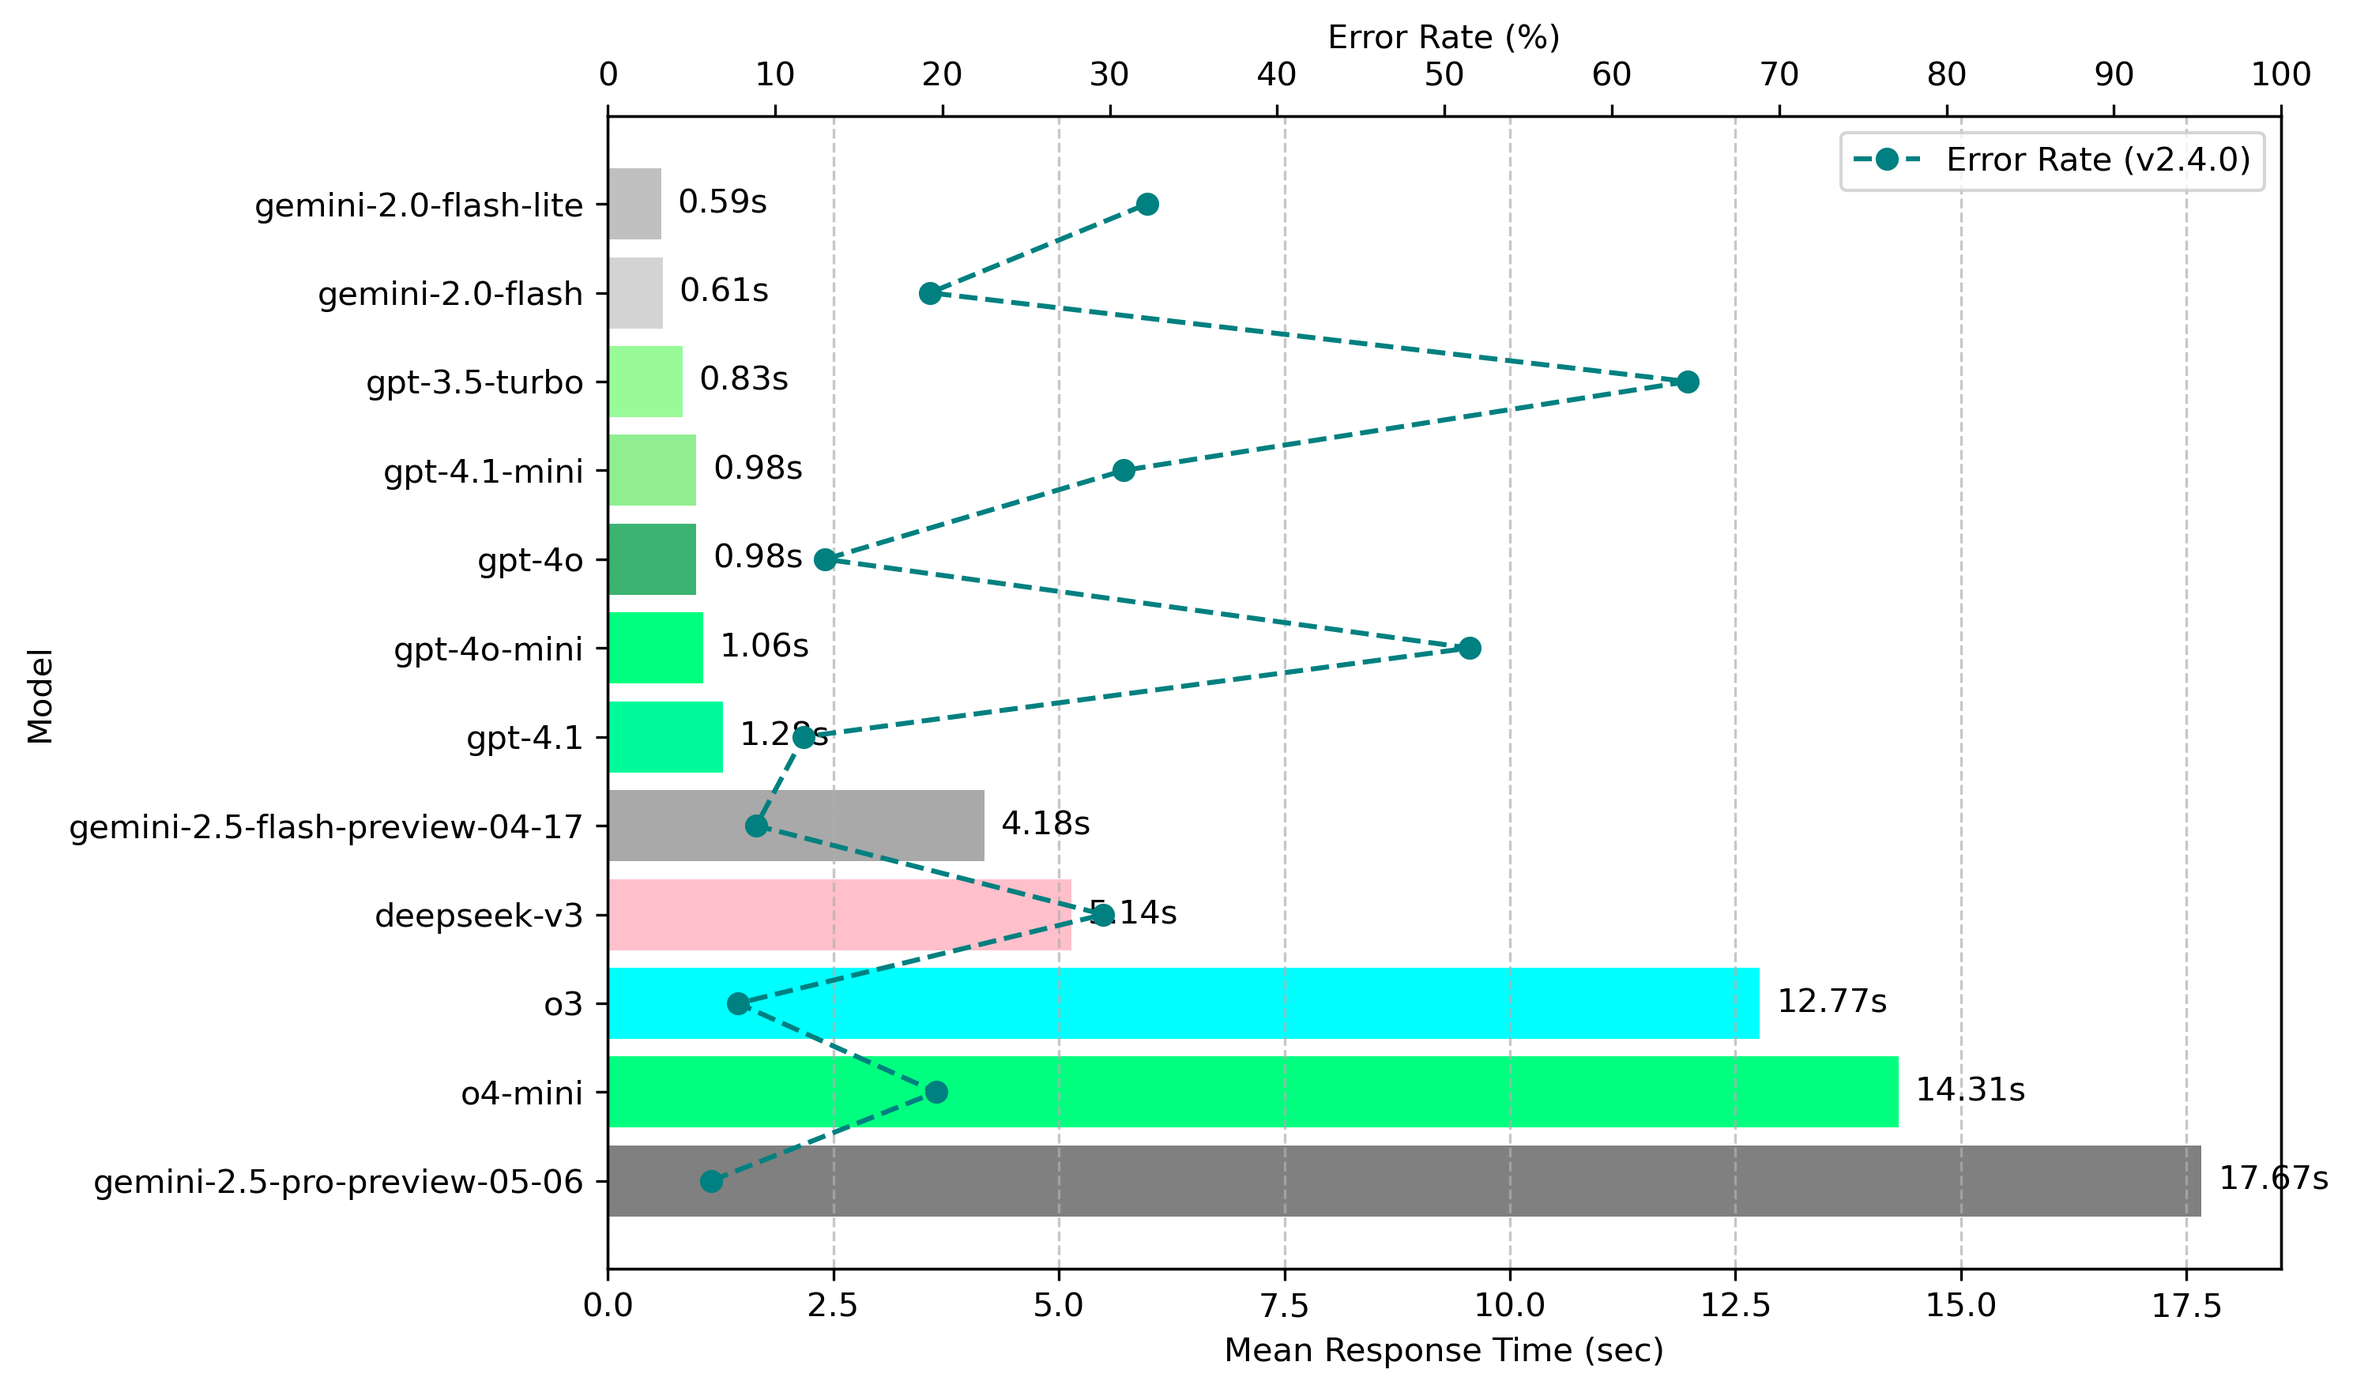
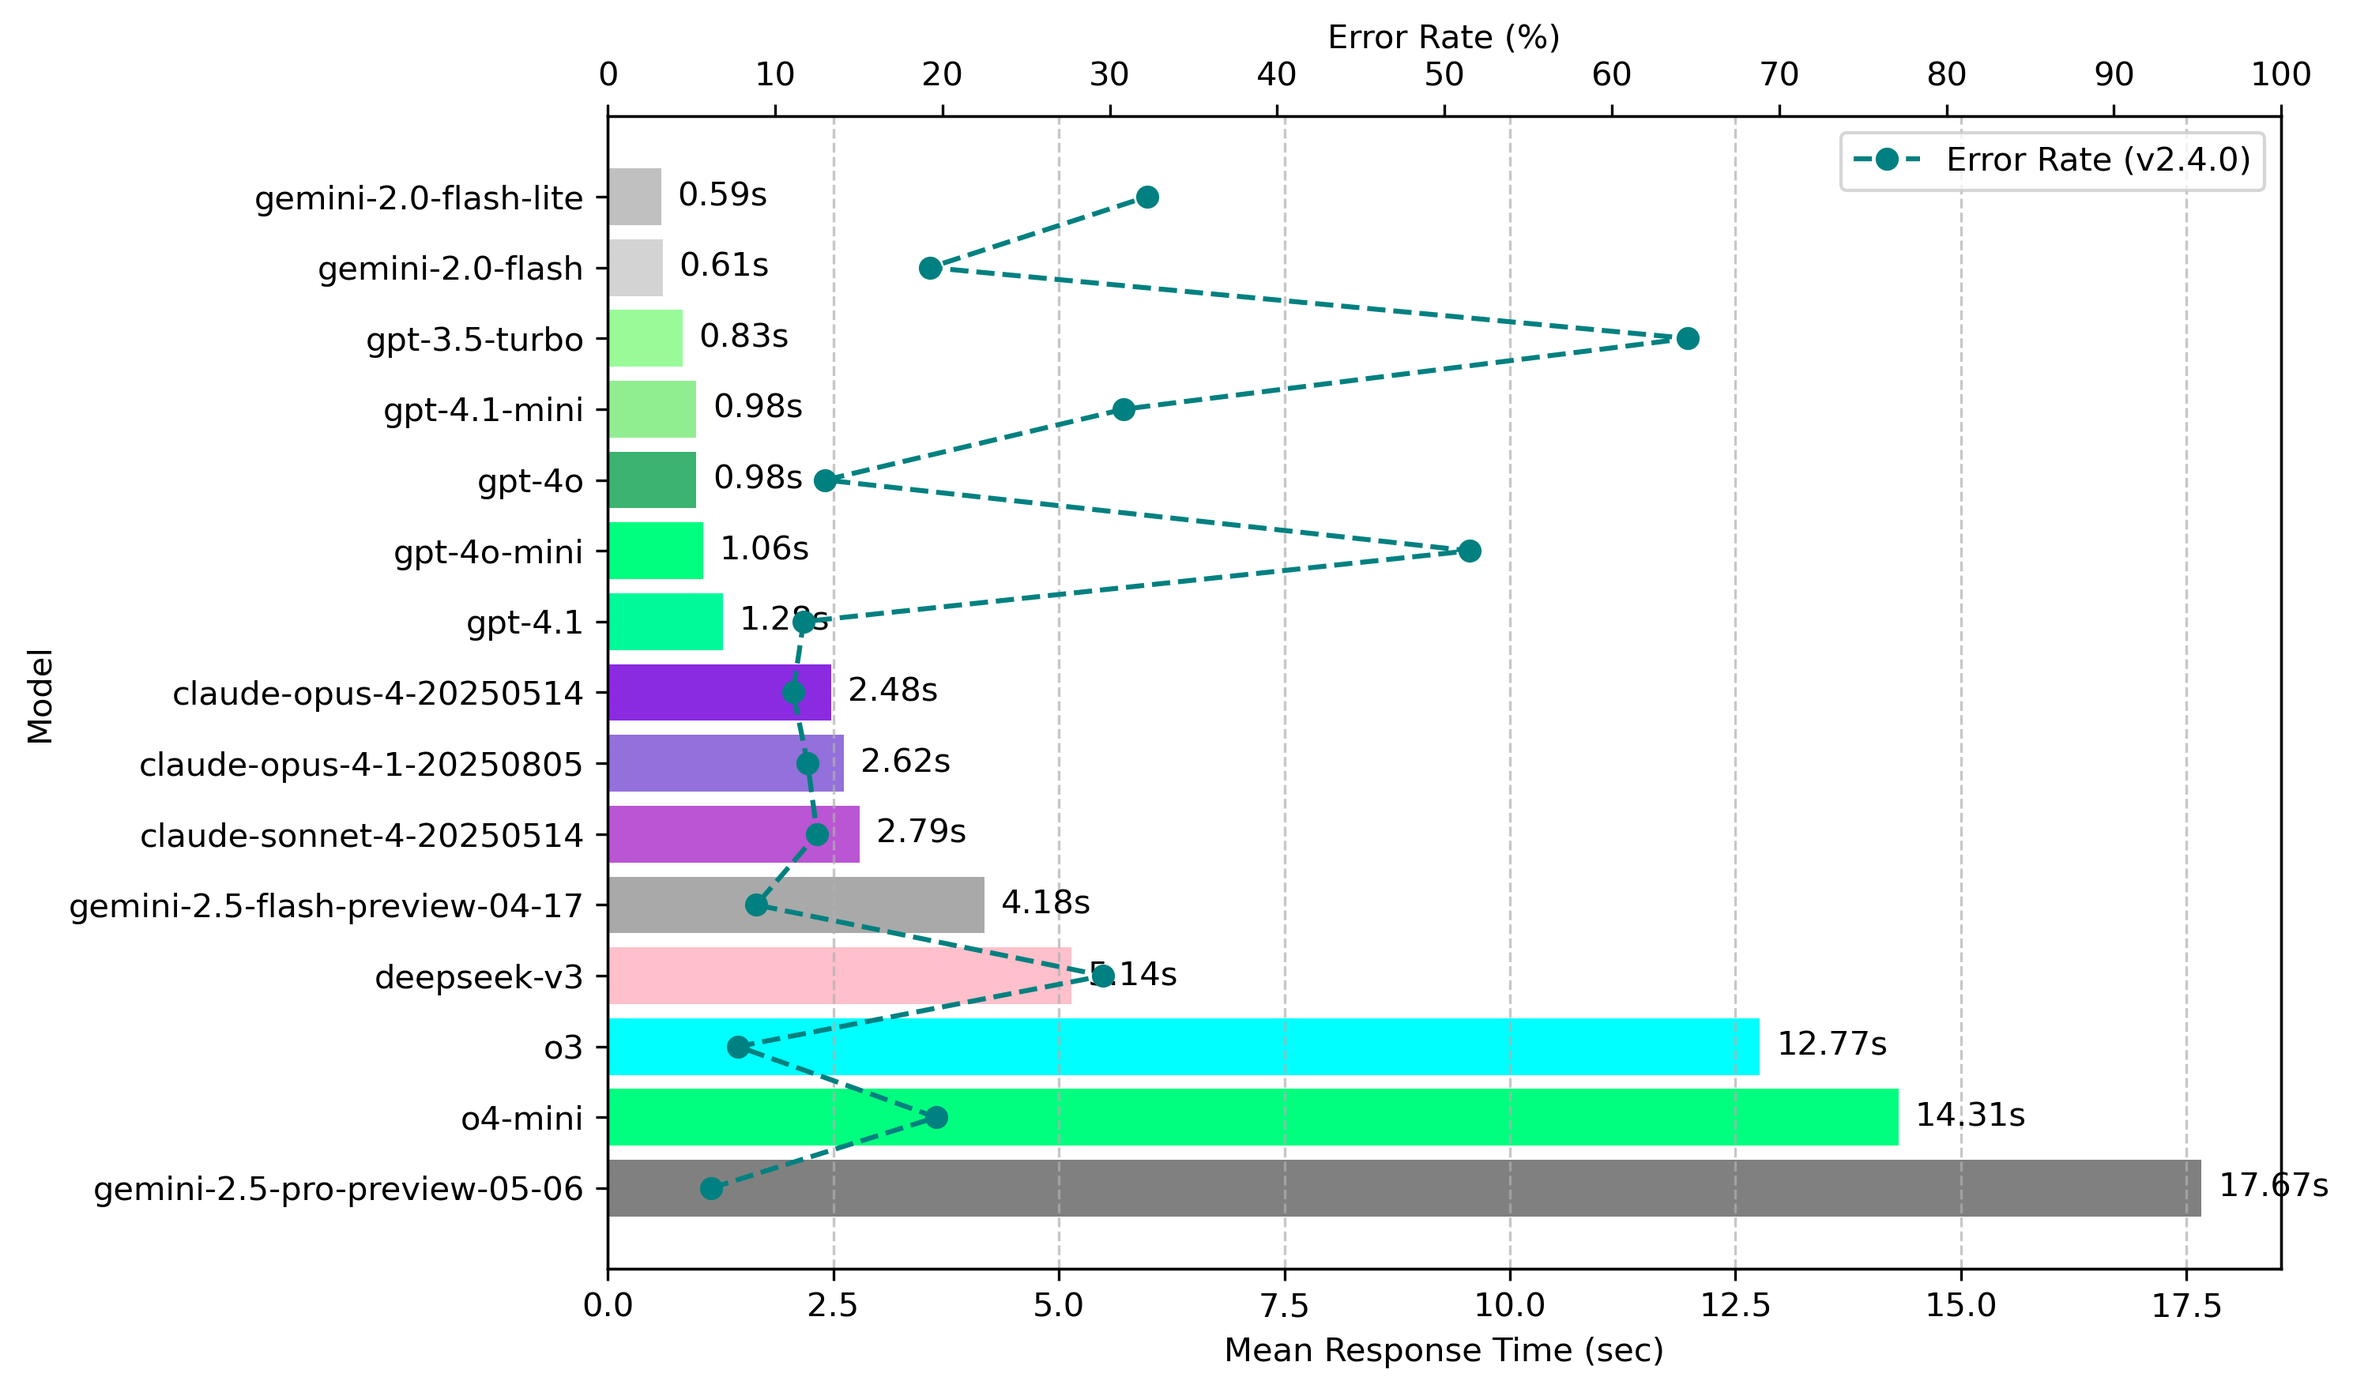
Claudeの３モデルをグラフに追加し、README.mdからVer2.3.0のプロンプトの言及を削除した

diff --git a/benchmark/plot_errorrate_vs_cost.py b/benchmark/plot_errorrate_vs_cost.py
@@ -1,20 +1,10 @@
 # -*- coding: utf-8 -*-
 """plot_errorrate_vs_cost.py
 
-v2.3.0 と v2.4.0 の 2 つのベンチマーク結果を同一グラフに描画する。
+v2.4.0 ベンチマーク結果を散布図で表示する。
 
-要件（Issue #??）
-1. バージョンごとに色の透明度を変えて区別する。
-   ・v2.3.0: 同系色で α を落とした（薄い）円。
-   ・v2.4.0: 同じ色だが α=1 の塗りつぶし円。
-2. 同一モデルについては v2.3.0 → v2.4.0 の向きを示す矢印を描画する。
-
-既存スクリプトはハードコードされた配列を扱っていたが、今回の要件を
-満たすために以下の方針を採用した。
-
-* “モデルごとのマスタ情報” (cost, カラー) を dict で保持。
-* v2.3.0, v2.4.0 それぞれについて CER・平均応答時間を dict に格納。
-* 共通処理で散布図を描いた後、両バージョンに存在するモデルだけ矢印。
+各LLMモデルのエラー率（CER）とコスト、平均応答時間を可視化する。
+円のサイズは平均応答時間を表し、大きいほど応答時間が長い。
 
 → JSON を直接パースするのではなく、aggregate_results.py の出力値を
   そのまま転記した定数で実装している（従来スクリプトと同一方針）。
@@ -46,6 +36,9 @@ MASTER_COST: Dict[str, float] = {
     "gemini-2.0-flash-lite": 0.0000975,
     "gemini-2.5-flash-preview-04-17": 0.000195,
     "gemini-2.5-pro-preview-05-06": 0.002625,
+    "claude-opus-4-1-20250805": 0.00750,
+    "claude-opus-4-20250514": 0.00750,
+    "claude-sonnet-4-20250514": 0.00150,
 }
 
 # モデルごとの基本色。matplotlib の named color もしくは hex
@@ -63,26 +56,14 @@ COLOR_MAP: Dict[str, str] = {
     "gemini-2.0-flash-lite": "silver",
     "gemini-2.5-flash-preview-04-17": "darkgray",
     "gemini-2.5-pro-preview-05-06": "gray",
+    "claude-opus-4-1-20250805": "mediumpurple",
+    "claude-opus-4-20250514": "blueviolet",
+    "claude-sonnet-4-20250514": "mediumorchid",
 }
 
 # ---------------------------------------------------------------------------
 # バージョン別の結果 (CER, mean_elapsed_sec)
 # ---------------------------------------------------------------------------
-# v2.3.0
-DATA_V23: Dict[str, Dict[str, float]] = {
-    "gpt-3.5-turbo": {"cer": 0.721777, "elapsed": 0.836779},
-    "gpt-4.1-mini": {"cer": 0.430172, "elapsed": 0.908558},
-    "gpt-4.1": {"cer": 0.218878, "elapsed": 0.985278},
-    "gpt-4o-mini": {"cer": 0.735027, "elapsed": 0.912621},
-    "gpt-4o": {"cer": 0.197426, "elapsed": 0.821817},
-    "o4-mini": {"cer": 0.332583, "elapsed": 21.780880},
-    "deepseek-v3": {"cer": 0.592557, "elapsed": 6.444244},
-    "gemini-2.0-flash": {"cer": 0.266489, "elapsed": 0.651836},
-    "gemini-2.0-flash-lite": {"cer": 0.356546, "elapsed": 0.709727},
-    "gemini-2.5-flash-preview-04-17": {"cer": 0.137815, "elapsed": 6.640661},
-    "gemini-2.5-pro-preview-05-06": {"cer": 0.093759, "elapsed": 28.210514},
-}
-
 # v2.4.0
 DATA_V24: Dict[str, Dict[str, float]] = {
     "gpt-3.5-turbo": {"cer": 0.645358, "elapsed": 0.827224},
@@ -98,6 +79,9 @@ DATA_V24: Dict[str, Dict[str, float]] = {
     "deepseek-v3": {"cer": 0.296198, "elapsed": 5.139222},
     "o3":           {"cer": 0.077915, "elapsed": 12.771444},
     "o4-mini":     {"cer": 0.196260, "elapsed": 14.309153},
+    "claude-opus-4-1-20250805": {"cer": 0.119479, "elapsed": 2.616859},
+    "claude-opus-4-20250514": {"cer": 0.110761, "elapsed": 2.476723},
+    "claude-sonnet-4-20250514": {"cer": 0.125210, "elapsed": 2.790457},
 }
 
 # ---------------------------------------------------------------------------
@@ -168,49 +152,10 @@ def plot_version(
             )
 
 
-def draw_improvement_arrows():
-    """両バージョンに存在するモデルに矢印を描画"""
-    common_models = set(DATA_V23) & set(DATA_V24)
-    for model in common_models:
-        p0 = (MASTER_COST[model], DATA_V23[model]["cer"] * 100)
-        p1 = (MASTER_COST[model], DATA_V24[model]["cer"] * 100)
-
-        color = COLOR_MAP.get(model, "blue")
-        plt.annotate(
-            "",
-            xy=p1,
-            xytext=p0,
-            arrowprops=dict(arrowstyle="->", color=color, lw=1, alpha=0.8),
-            zorder=1,
-        )
 
 
 def build_legend():
-    """凡例を 2 つ (バージョン, 平均応答時間) にまとめて描画"""
-
-    # バージョン凡例（マーカーの形状・透明度）
-    legend_version_handles = [
-        Line2D(
-            [],
-            [],
-            marker="o",
-            color="black",
-            markersize=6,
-            linestyle="None",
-            markerfacecolor="none",
-            alpha=0.4,
-            label="v2.3.0",
-        ),
-        Line2D(
-            [],
-            [],
-            marker="o",
-            color="black",
-            markersize=6,
-            linestyle="None",
-            label="v2.4.0",
-        ),
-    ]
+    """平均応答時間の凡例を描画"""
 
     # 平均応答時間凡例（円サイズ）
     seconds_legend = [1, 5, 10]
@@ -230,45 +175,21 @@ def build_legend():
         )
 
     # drawing
-    # ---------- Legend: Version ----------
     ax = plt.gca()
-    first_legend = ax.legend(
-        handles=legend_version_handles,
-        loc="upper right",
-        title="Version",
-        framealpha=0.8,
-    )
-    # ---------- Legend: Mean Response Time ----------
-    # 上記 legend と同じ右上領域に配置するが、少しだけ下にオフセットを入れる
-    # bbox_to_anchor=(x, y) は (0,0) が左下, (1,1) が右上
-    # y を 0.58 あたりに設定して少し下に下げる
-    ax.add_artist(first_legend)
-
     ax.legend(
         handles=legend_size_handles,
         loc="upper right",
-        bbox_to_anchor=(1, 0.62),  # y を少し下げて Version の下に重ねる
         title="Mean Response Time",
         framealpha=0.8,
     )
 
 
 def main():
-    parser = argparse.ArgumentParser(description="Plot error rate vs cost (v2.3.0 & v2.4.0)")
+    parser = argparse.ArgumentParser(description="Plot error rate vs cost (v2.4.0)")
     parser.add_argument("-o", "--output", help="Output image file path")
     args = parser.parse_args()
 
     plt.figure(figsize=(8, 6))
-
-    # v2.3.0 — 薄い枠円（ラベル無し）
-    plot_version(
-        DATA_V23,
-        "v2.3.0",
-        alpha=0.4,
-        face_filled=False,
-        zorder=2,
-        annotate=False,
-    )
 
     # v2.4.0 — 濃い塗りつぶし円（ラベルあり）
     plot_version(
@@ -280,17 +201,15 @@ def main():
         annotate=True,
     )
 
-    # 改善矢印
-    draw_improvement_arrows()
 
     # 軸設定
     plt.xlabel("Cost Per Request ($)")
     plt.ylabel("Error Rate (%)")
-    plt.title("Error Rate vs Cost of LLM Model (v2.3.0 → v2.4.0)")
+    plt.title("Error Rate vs Cost of LLM Model (v2.4.0)")
     plt.grid(True, which="both", linestyle=":", linewidth=0.5)
 
-    # Y 軸 0–80 %
-    plt.ylim(0, 80)
+    # Y 軸 0–70 %
+    plt.ylim(0, 70)
     # 余白 (x 軸)
     plt.margins(x=0.05)
 

diff --git a/benchmark/plot_mean_response_time.py b/benchmark/plot_mean_response_time.py
@@ -43,6 +43,9 @@ MODELS: List[str] = [
     "gemini-2.5-flash-preview-04-17",
     "gemini-2.5-pro-preview-05-06",
     "o3",
+    "claude-opus-4-1-20250805",
+    "claude-opus-4-20250514",
+    "claude-sonnet-4-20250514",
 ]
 
 # 平均応答時間 (sec) v2.4.0
@@ -59,6 +62,9 @@ MEAN_ELAPSED_V24 = [
     4.177074,
     17.666037,
     12.771444,
+    2.616859,
+    2.476723,
+    2.790457,
 ]
 
 MEAN_CER_V24 = [
@@ -74,6 +80,9 @@ MEAN_CER_V24 = [
     0.088799,
     0.061644,
     0.077915,
+    0.119479,
+    0.110761,
+    0.125210,
 ]
 
 # カラー (plot_errorrate_vs_cost.py と合わせている)
@@ -90,6 +99,9 @@ BAR_COLORS = [
     "darkgray",
     "gray",
     "cyan",
+    "mediumpurple",
+    "blueviolet",
+    "mediumorchid",
 ]
 
 # ---------------------------------------------------------------------------

diff --git a/benchmark/README.md b/benchmark/README.md
@@ -27,11 +27,11 @@ response = self.client.chat.completions.create(
 )
 ```
 
-### プロンプト (`messages`) の内容(Sumibi ver2.3.0)
+### プロンプト (`messages`) の内容
 
 | role      | content |
 |-----------|---------|
-| system    | あなたはローマ字とひらがなを日本語に変換するアシスタントです。ローマ字の 「nn」 は 「ん」と読んでください。\[\]\(URL\)のようなmarkdown構文は維持してください。\# や \#\# や \#\#\# や \#\#\#\# のようなmarkdown構文は維持してください。  |
+| system    | あなたはローマ字とひらがなを日本語に変換するアシスタントです。ローマ字の 「nn」 は 「ん」と読んでください。\[\]\(URL\)のようなmarkdown構文は維持してください。\# や \#\# や \#\#\# や \#\#\#\# のようなmarkdown構文は維持してください。ローマ字の字面をそのままひらがなや漢字にするだけで、元のローマ字にない文章を作り出さないでください。出力は変換後の一文のみ。注釈や説明は一切付けないください。もし、入力された文章が英語の文章と判断できた場合は、日本語に翻訳してください。 |
 | user      | ローマ字とひらがなの文を漢字仮名混じり文にしてください。 周辺の文章は、「こんにちは、中野です。watashi no namae ha nakano desu . どうぞよろしくお願いします。」のような文章になっています。周辺の文脈を見てそれに合った語彙を選んでください。: watashi no namae ha nakano desu . |
 | assistant | 私の名前は中野です。 |
 | user      | ローマ字とひらがなの文を漢字仮名混じり文にしてください。周辺の文章は、「説明はここまでです。それ以外は ikano toori desu .」のような文章になっています。周辺の文脈を見てそれに合った語彙を選んでください。: ikano toori desu . |
@@ -41,13 +41,6 @@ response = self.client.chat.completions.create(
 ※ **surrounding_text** 部分には「近年知名度gaagattekiteori」のような変換対象の周辺文章を含む文字列が入ります。
 ※ **text**部分には「gaagattekiteori」のような変換対象の文字列が入ります。
 
-### プロンプト (`messages`) の内容(Sumibi ver2.4.0追加部分)
-
-※ 以下の**太字**の部分を追加しました。これにより変換エラー率が下がりました。
-
-| role   | content                                                                                                                                                                                                                                                                                                                                         |   |
-|--------|-------------------------------------------------------------------------------------------------------------------------------------------------------------------------------------------------------------------------------------------------------------------------------------------------------------------------------------------------|---|
-| system | あなたはローマ字とひらがなを日本語に変換するアシスタントです。ローマ字の 「nn」 は 「ん」と読んでください。\[\]\(URL\)のようなmarkdown構文は維持してください。\# や \#\# や \#\#\# や \#\#\#\# のようなmarkdown構文は維持してください。**ローマ字の字面をそのままひらがなや漢字にするだけで、元のローマ字にない文章を作り出さないでください。出力は変換後の一文のみ。注釈や説明は一切付けないください。もし、入力された文章が英語の文章と判断できた場合は、日本語に翻訳してください。** |
 
 ## 測定結果グラフ
 
@@ -64,7 +57,7 @@ Sumibi のユーザビリティを左右する主要因として、以下の3つ
 以下ではこれらを組み合わせた傾向を分析します。
 
 ### レイテンシーと精度のトレードオフでの評価
-ver **2.4.0** での代表値（平均応答時間 / CER / コスト）は次のとおりです。
+代表値（平均応答時間 / CER / コスト）は次のとおりです。
 
 - **1 秒未満でバランス良好**  \
   - `gemini-2.0-flash`：**0.61 s / 19.3 % / $0.00013** ─ 最速級で低コスト。  \
@@ -131,8 +124,6 @@ ver **2.4.0** での代表値（平均応答時間 / CER / コスト）は次の
 # ローカルLLM
 ローカルLLMでもベンチマークデータを取得しました。100B(1000億パラメータ)までのモデルを試しましたが、実用的に使えるモデルはありませんでした。一般的なPCやクラウドで借りれるGPUサーバーで稼働できるモデルにも予算面で限界があるため、Sumibiには適していないことが分かります。Sumibiは各種ビッグテックのAPI経由で利用することが最も現実的です。
 また、100Bサイズのパラメータまでの範囲では、パラメータサイズを大きくしても変換精度向上はほとんど見られませんでした。ローマ字をすべてカタカナにしてもほとんどエラー率は下がらなかったため、ローマ字を読む能力が低いというわけでもなさそうです。パラメータ数が少なくても日本語の性能が良いというモデルが出てきたら、追試します。
-
-(Sumibi ver2.3.0のプロンプトでベンチマークデータ取得)
 
 ![plot3](../images/plot_errorrate_vs_paramsize_1000x600.png)
 
